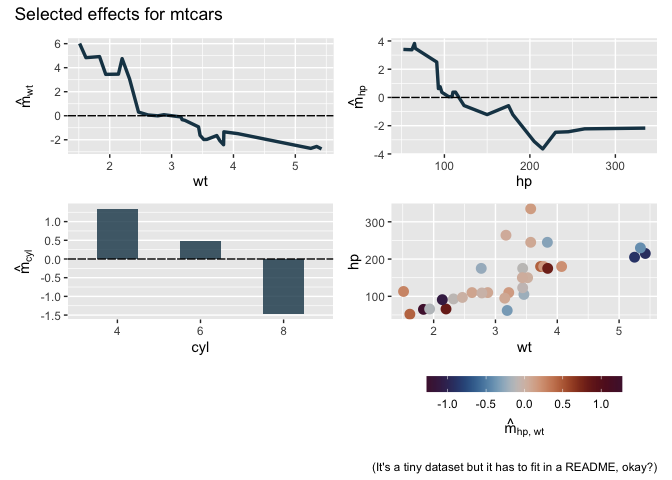
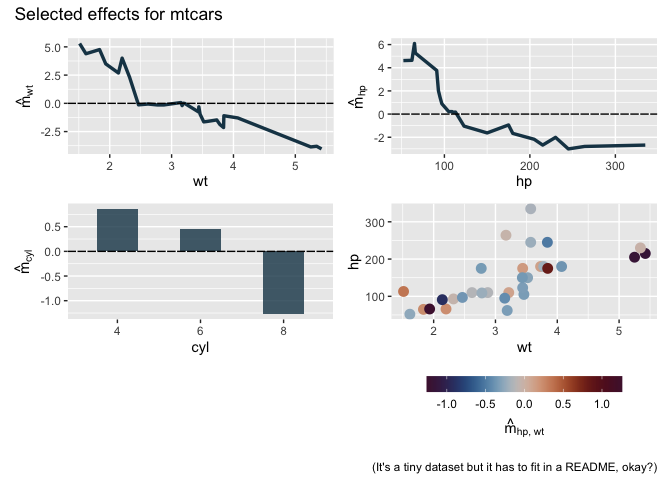
Add r-universe badge

diff --git a/README.md b/README.md
@@ -8,6 +8,8 @@
 [![R-CMD-check](https://github.com/PlantedML/randomPlantedForest/actions/workflows/R-CMD-check.yaml/badge.svg)](https://github.com/PlantedML/randomPlantedForest/actions/workflows/R-CMD-check.yaml)
 [![Codecov test
 coverage](https://codecov.io/gh/PlantedML/randomPlantedForest/branch/master/graph/badge.svg)](https://app.codecov.io/gh/PlantedML/randomPlantedForest?branch=master)
+[![randomPlantedForest status
+badge](https://plantedml.r-universe.dev/badges/randomPlantedForest)](https://plantedml.r-universe.dev/randomPlantedForest)
 <!-- badges: end -->
 
 `randomPlantedForest` implements “Random Planted Forest”, a directly
@@ -16,11 +18,17 @@ interpretable tree ensemble [(arxiv)](https://arxiv.org/abs/2012.14563).
 ## Installation
 
 You can install the development version of `randomPlantedForest` from
-[GitHub](https://github.com/) with:
+[GitHub](https://github.com/) with
 
 ``` r
 # install.packages("remotes")
 remotes::install_github("PlantedML/randomPlantedForest")
+```
+
+or from [r-universe](https://plantedml.r-universe.dev/packages) with
+
+``` r
+install.packages("randomPlantedForest", repos = "https://plantedml.r-universe.dev")
 ```
 
 ## Example
@@ -50,7 +58,7 @@ rpfit
 #>            delta: 0
 #>          epsilon: 0.1
 #>    deterministic: FALSE
-#>         parallel: FALSE
+#>         nthreads: 1
 #>           purify: FALSE
 #>               cv: FALSE
 
@@ -58,12 +66,12 @@ predict(rpfit, new_data = mtcars) |>
   cbind(mpg = mtcars$mpg) |>
   head()
 #>      .pred  mpg
-#> 1 21.08519 21.0
-#> 2 21.07633 21.0
-#> 3 25.39977 22.8
-#> 4 20.78283 21.4
-#> 5 17.56310 18.7
-#> 6 18.71368 18.1
+#> 1 20.81459 21.0
+#> 2 20.72354 21.0
+#> 3 26.04526 22.8
+#> 4 21.26845 21.4
+#> 5 18.45921 18.7
+#> 6 19.54406 18.1
 ```
 
 Prediction components can be accessed via `predict_components`,
@@ -78,12 +86,12 @@ components <- predict_components(rpfit, new_data = mtcars)
 str(components)
 #> List of 3
 #>  $ m        :Classes 'data.table' and 'data.frame':  32 obs. of  6 variables:
-#>   ..$ cyl   : num [1:32] 0.477 0.477 1.343 0.477 -1.477 ...
-#>   ..$ wt    : num [1:32] 0.0623 0.0845 3.0677 -0.3823 -1.0544 ...
-#>   ..$ hp    : num [1:32] 0.373 0.373 0.629 0.373 -0.584 ...
-#>   ..$ cyl:wt: num [1:32] -0.15403 -0.16567 -0.00392 -0.06926 0.14771 ...
-#>   ..$ cyl:hp: num [1:32] 0.0429 0.0429 0.2779 0.0429 0.4573 ...
-#>   ..$ hp:wt : num [1:32] 0.1049 0.0855 -0.0931 0.1623 -0.1054 ...
+#>   ..$ cyl   : num [1:32] 0.445 0.445 0.863 0.445 -1.274 ...
+#>   ..$ wt    : num [1:32] -0.0615 -0.1421 2.3182 -0.0155 -0.3116 ...
+#>   ..$ hp    : num [1:32] 0.162 0.162 2.021 0.162 -0.941 ...
+#>   ..$ cyl:wt: num [1:32] 0.00389 0.00389 0.69586 0.17156 0.4615 ...
+#>   ..$ cyl:hp: num [1:32] 0.1453 0.1453 -0.0511 0.1453 0.1179 ...
+#>   ..$ hp:wt : num [1:32] -0.1264 -0.1367 -0.0487 0.1138 0.1596 ...
 #>   ..- attr(*, ".internal.selfref")=<externalptr> 
 #>  $ intercept: num 20.2
 #>  $ x        :Classes 'data.table' and 'data.frame':  32 obs. of  3 variables:
